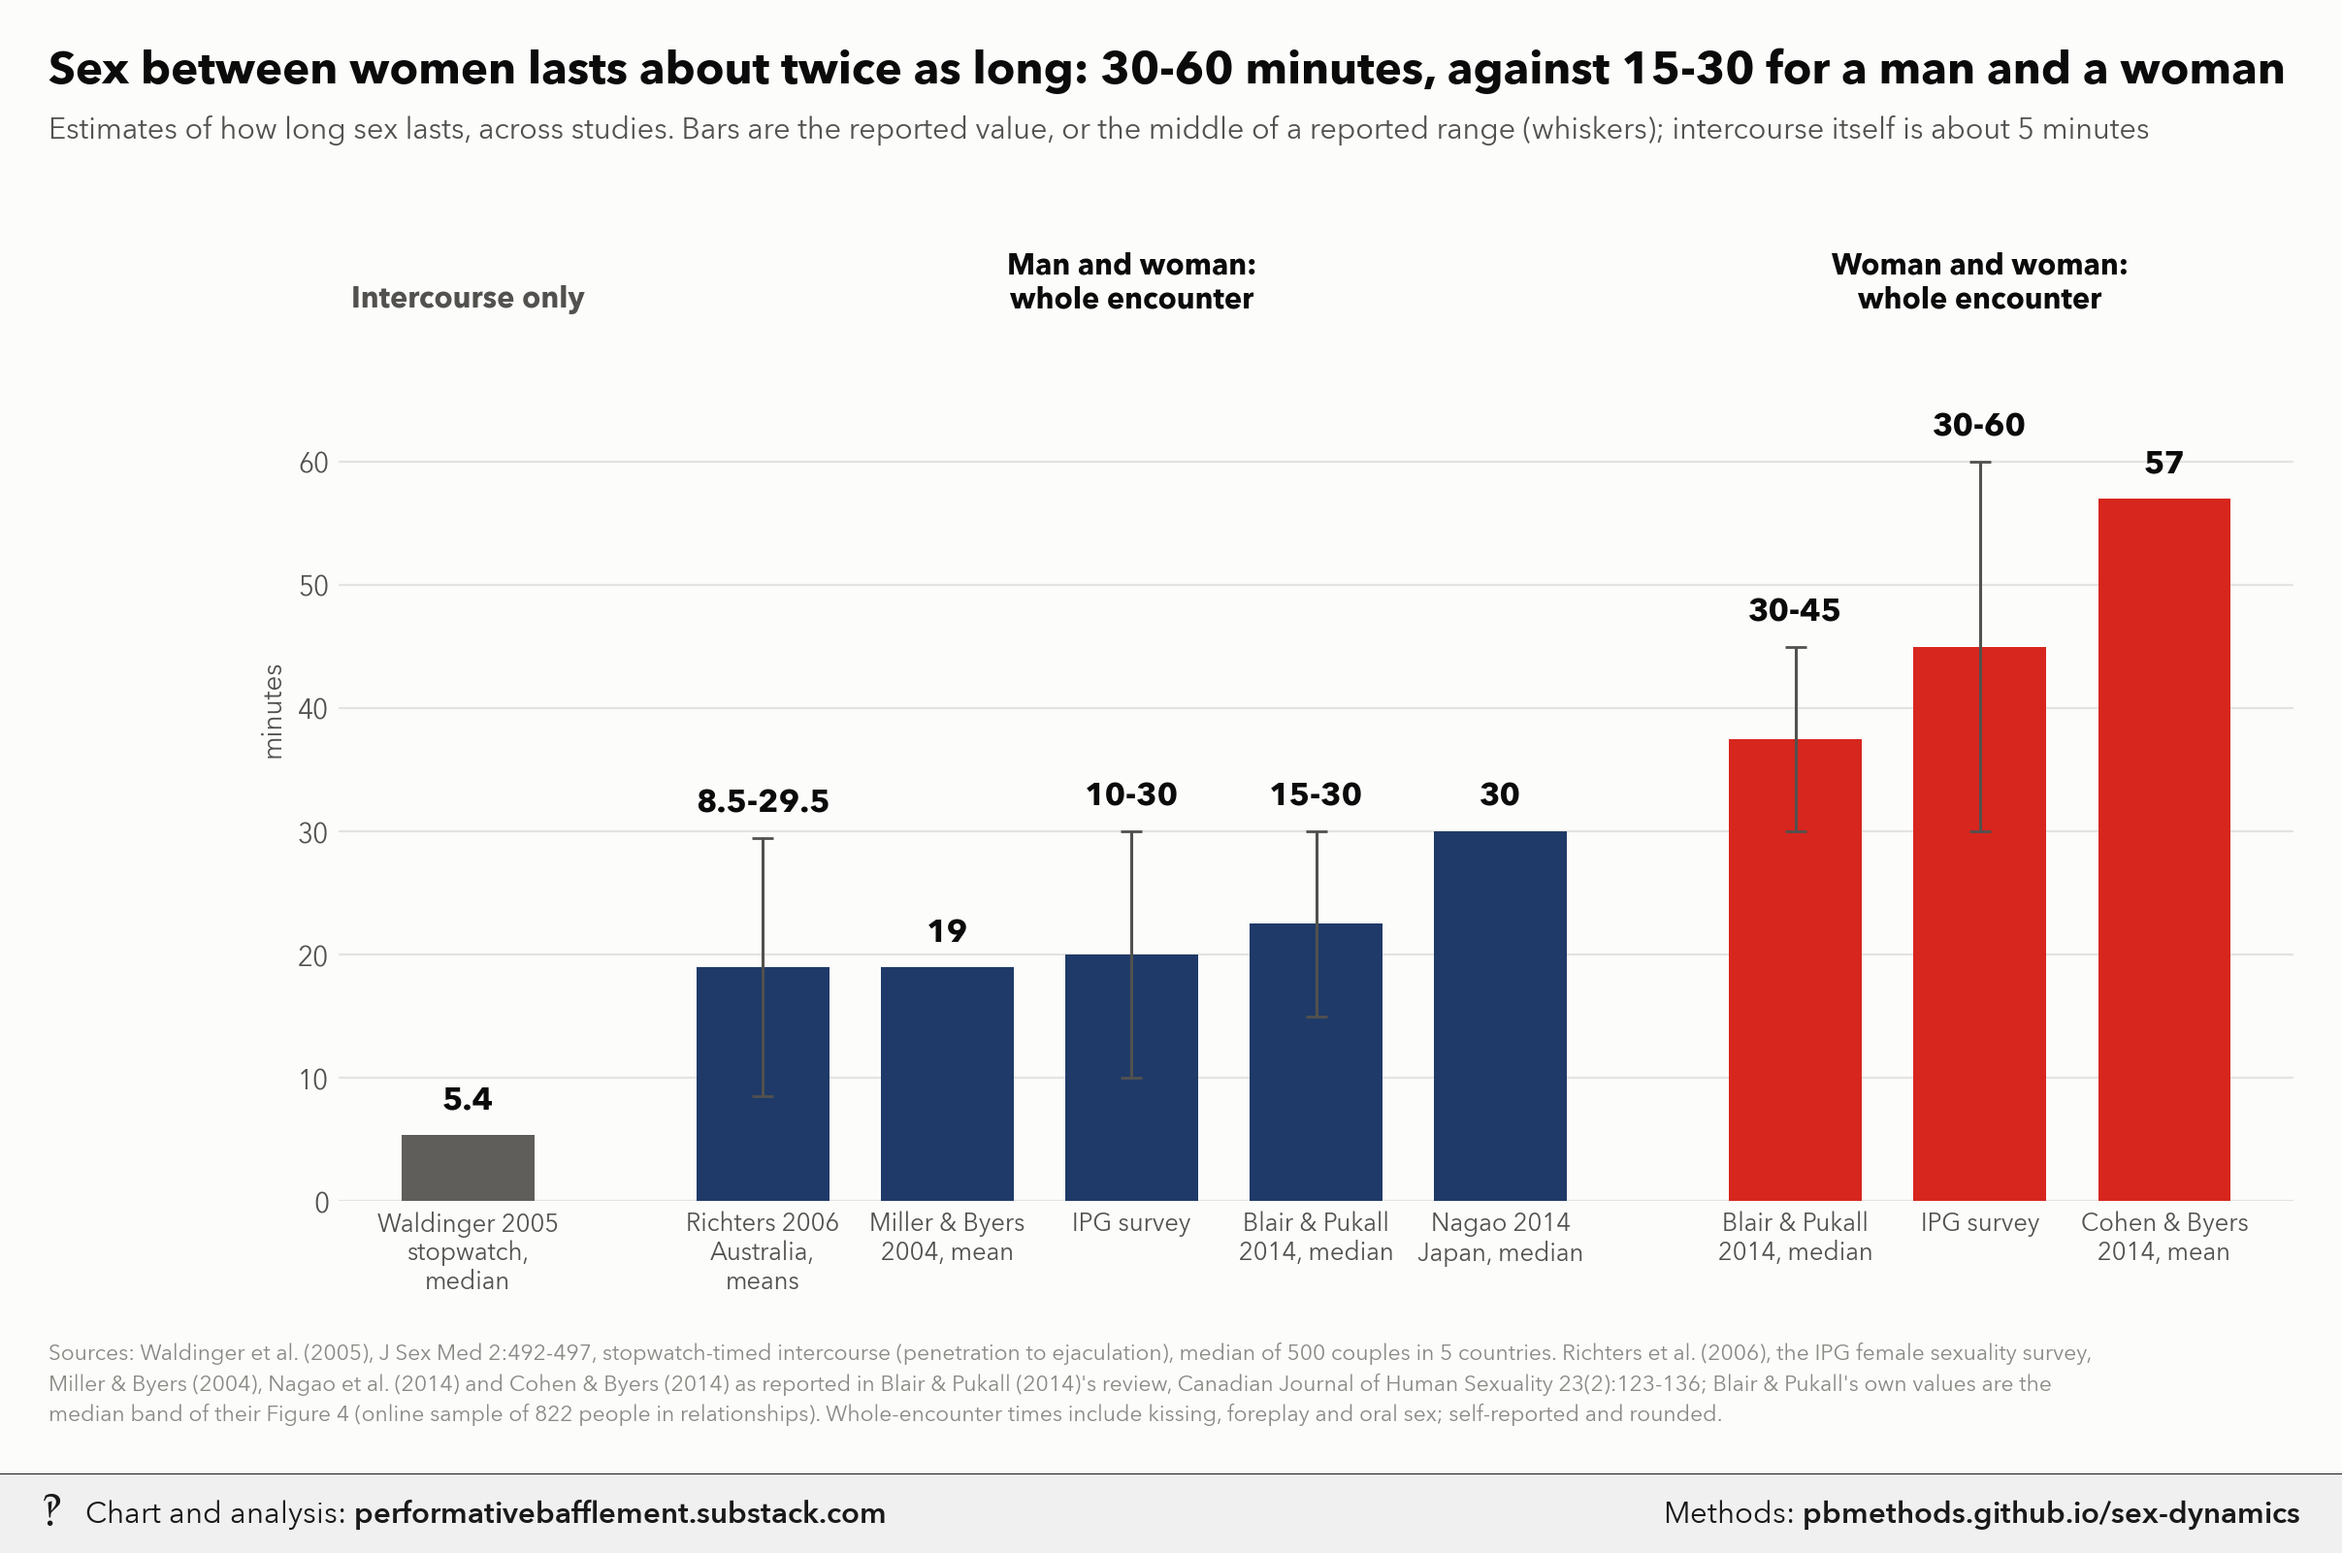
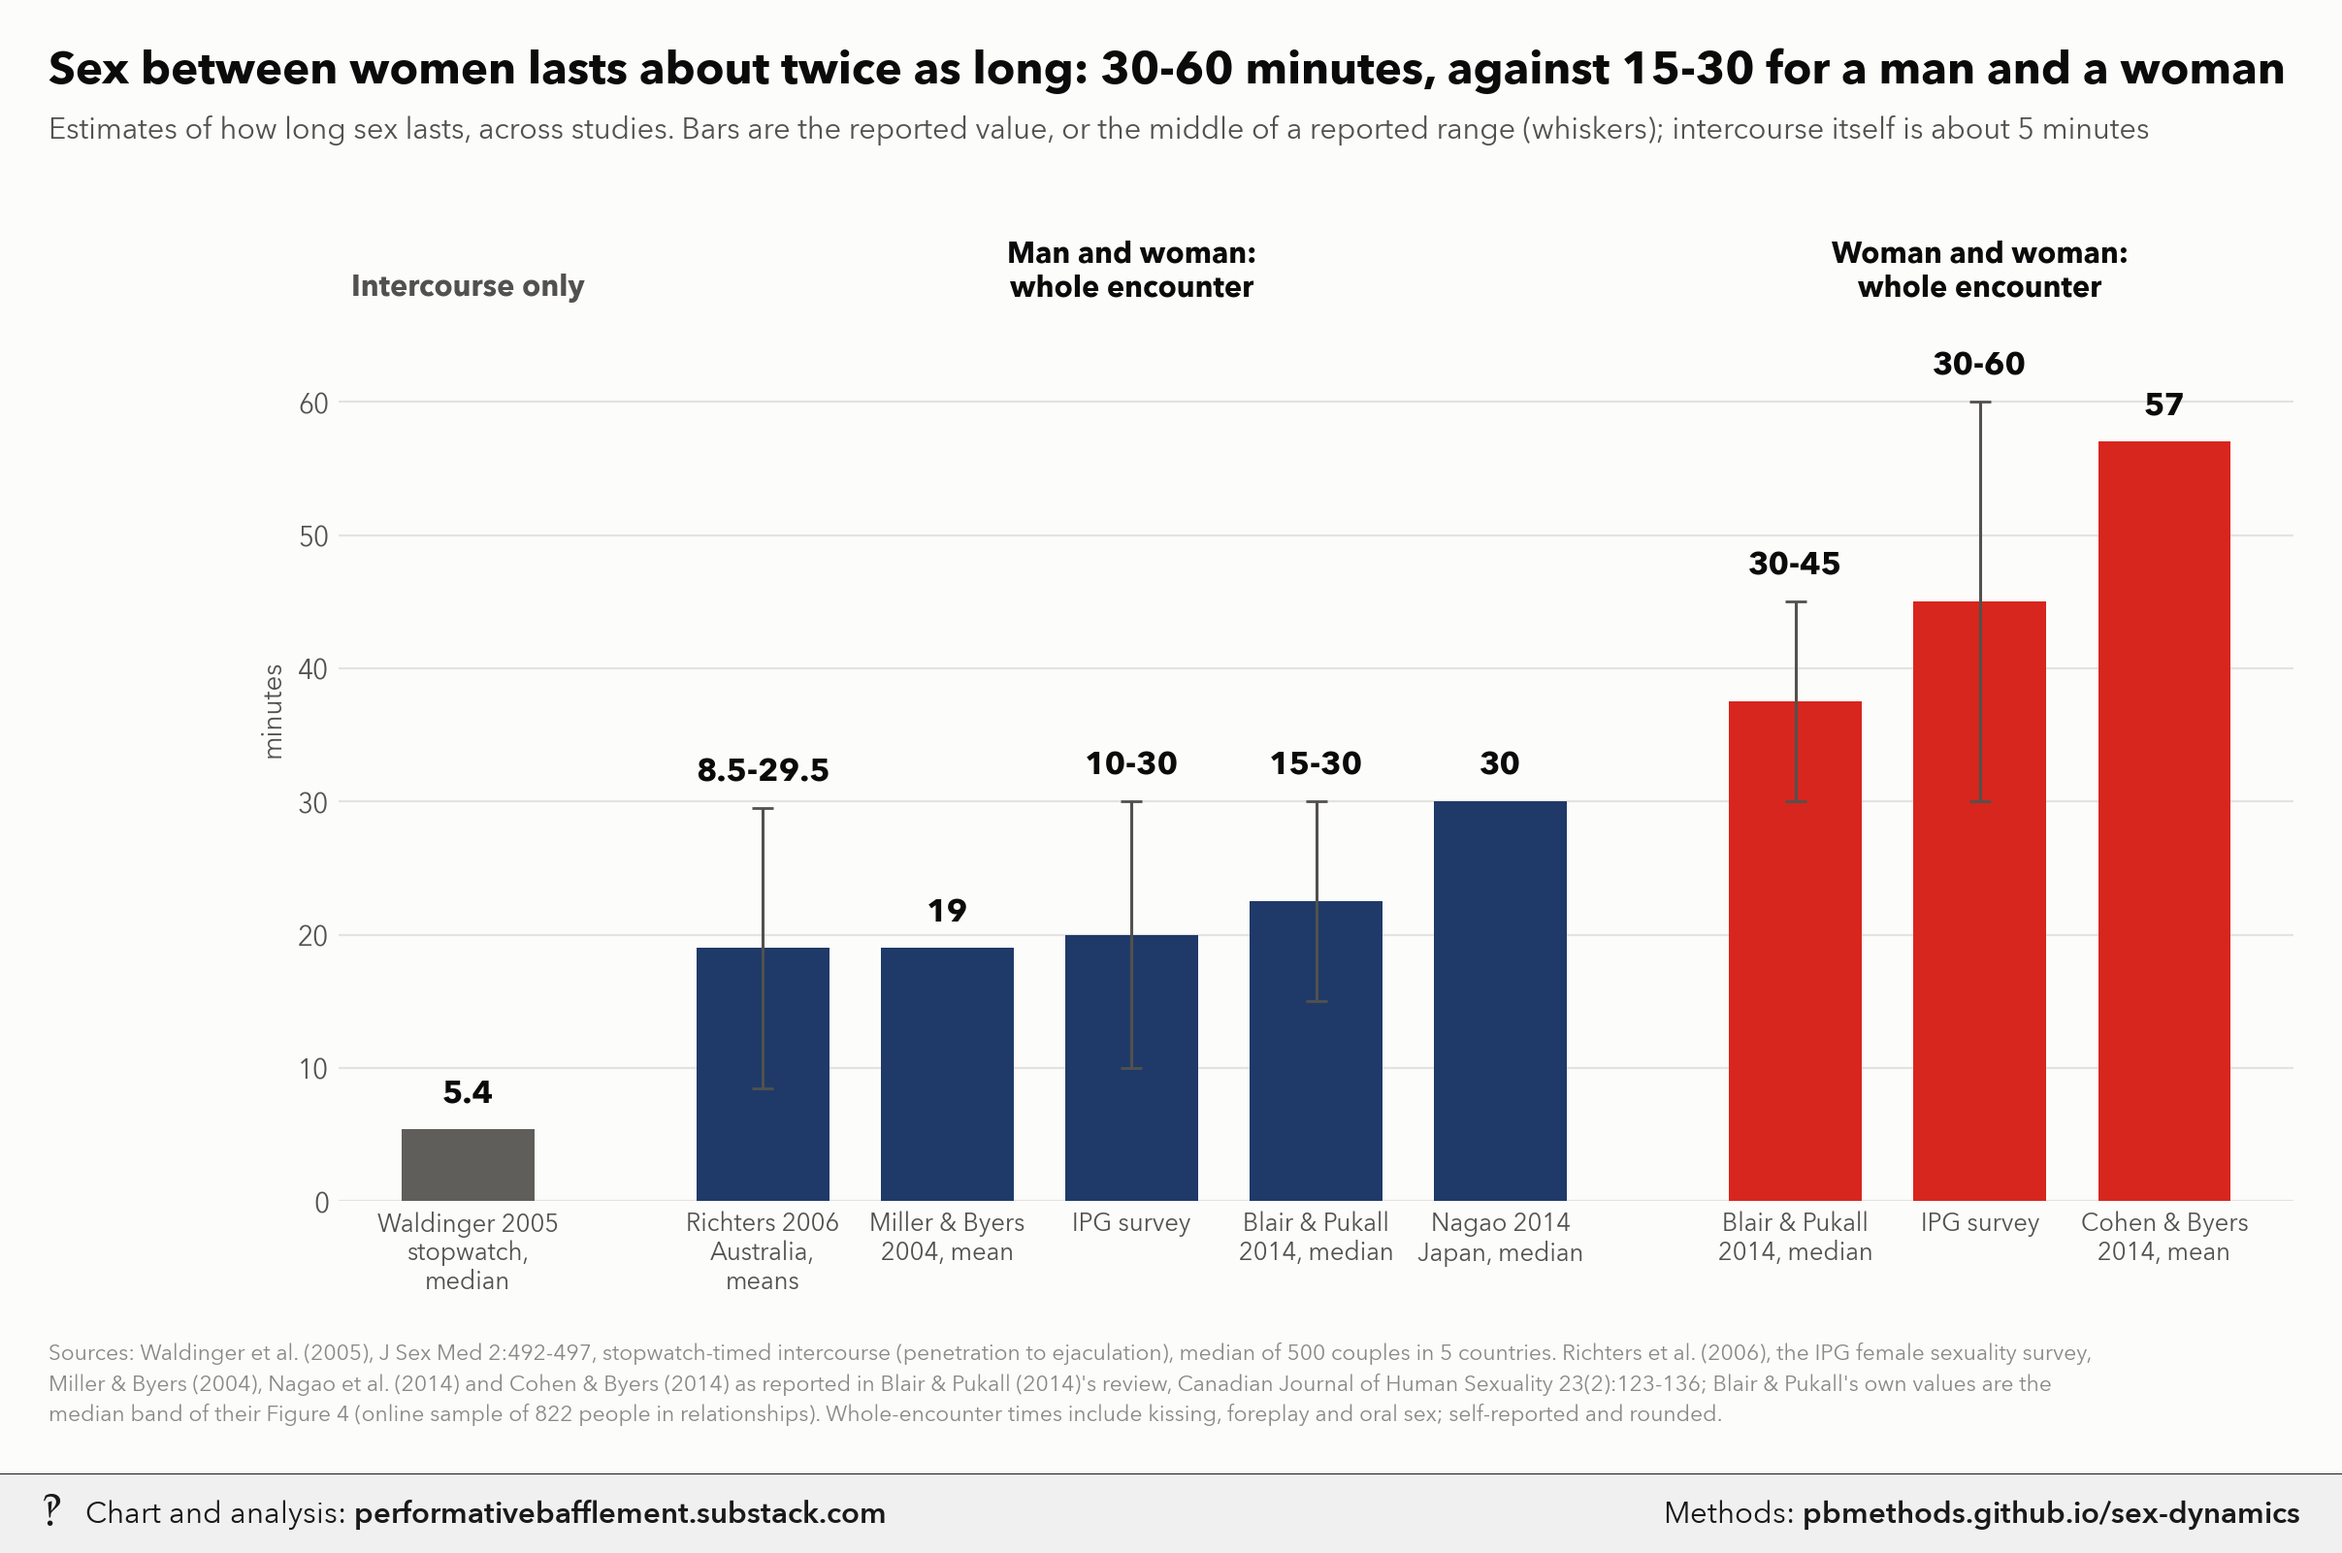
Update sex-dynamics

diff --git a/sex-dynamics/index.html b/sex-dynamics/index.html
@@ -6580,12 +6580,12 @@ for kind, c, head in GROUPS:
         ax.text(x, r.hi + 1.5, txt, ha=&quot;center&quot;, va=&quot;bottom&quot;, fontsize=12, fontweight=&quot;bold&quot;, color=INK)
         ticks.append(x); labs.append(SHORT[next(k for k in SHORT if r.label.startswith(k))])
         x += 1
-    ax.text((x0 + x - 1) / 2, 72, head, ha=&quot;center&quot;, va=&quot;bottom&quot;, fontsize=11, fontweight=&quot;bold&quot;,
+    ax.text((x0 + x - 1) / 2, 67.5, head, ha=&quot;center&quot;, va=&quot;bottom&quot;, fontsize=11, fontweight=&quot;bold&quot;,
             color=INK if kind != &quot;ielt&quot; else INK2, linespacing=1.2)
     x += 0.6
 ax.set_xticks(ticks, labs, fontsize=9.2, color=INK2, linespacing=1.15)
 ax.tick_params(axis=&quot;x&quot;, length=0)
-ax.set_xlim(-0.7, x - 0.9); ax.set_ylim(0, 80); ax.set_yticks([0, 10, 20, 30, 40, 50, 60])
+ax.set_xlim(-0.7, x - 0.9); ax.set_ylim(0, 74); ax.set_yticks([0, 10, 20, 30, 40, 50, 60])
 ax.set_ylabel(&quot;minutes&quot;); ax.grid(axis=&quot;x&quot;, visible=False)
 header(fig, &quot;Sex between women lasts about twice as long: 30-60 minutes, against 15-30 for a man and a woman&quot;,
        &quot;Estimates of how long sex lasts, across studies. Bars are the reported value, or the middle of a reported &quot;

diff --git a/sex-dynamics/methods.md b/sex-dynamics/methods.md
@@ -2933,12 +2933,12 @@ for kind, c, head in GROUPS:
         ax.text(x, r.hi + 1.5, txt, ha="center", va="bottom", fontsize=12, fontweight="bold", color=INK)
         ticks.append(x); labs.append(SHORT[next(k for k in SHORT if r.label.startswith(k))])
         x += 1
-    ax.text((x0 + x - 1) / 2, 72, head, ha="center", va="bottom", fontsize=11, fontweight="bold",
+    ax.text((x0 + x - 1) / 2, 67.5, head, ha="center", va="bottom", fontsize=11, fontweight="bold",
             color=INK if kind != "ielt" else INK2, linespacing=1.2)
     x += 0.6
 ax.set_xticks(ticks, labs, fontsize=9.2, color=INK2, linespacing=1.15)
 ax.tick_params(axis="x", length=0)
-ax.set_xlim(-0.7, x - 0.9); ax.set_ylim(0, 80); ax.set_yticks([0, 10, 20, 30, 40, 50, 60])
+ax.set_xlim(-0.7, x - 0.9); ax.set_ylim(0, 74); ax.set_yticks([0, 10, 20, 30, 40, 50, 60])
 ax.set_ylabel("minutes"); ax.grid(axis="x", visible=False)
 header(fig, "Sex between women lasts about twice as long: 30-60 minutes, against 15-30 for a man and a woman",
        "Estimates of how long sex lasts, across studies. Bars are the reported value, or the middle of a reported "
